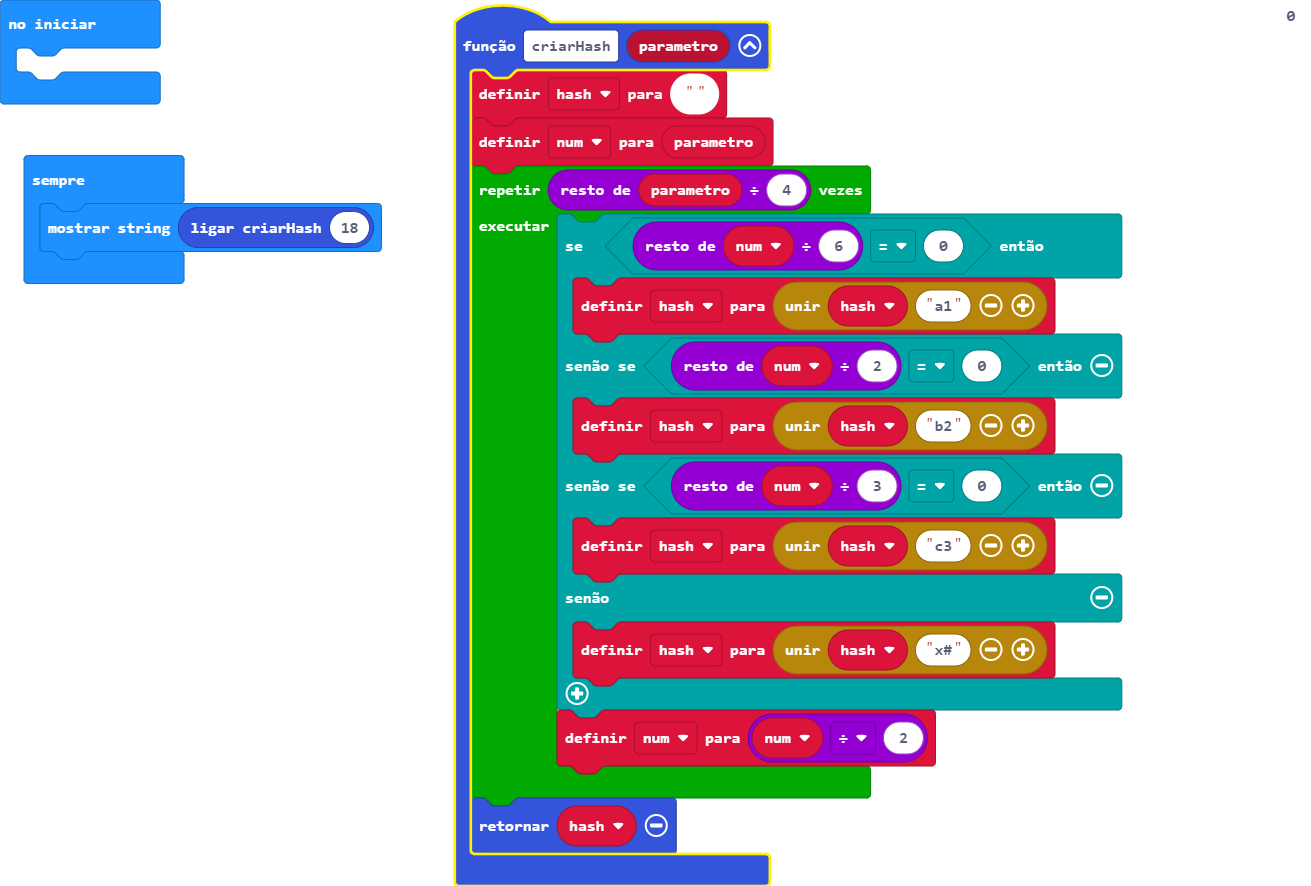
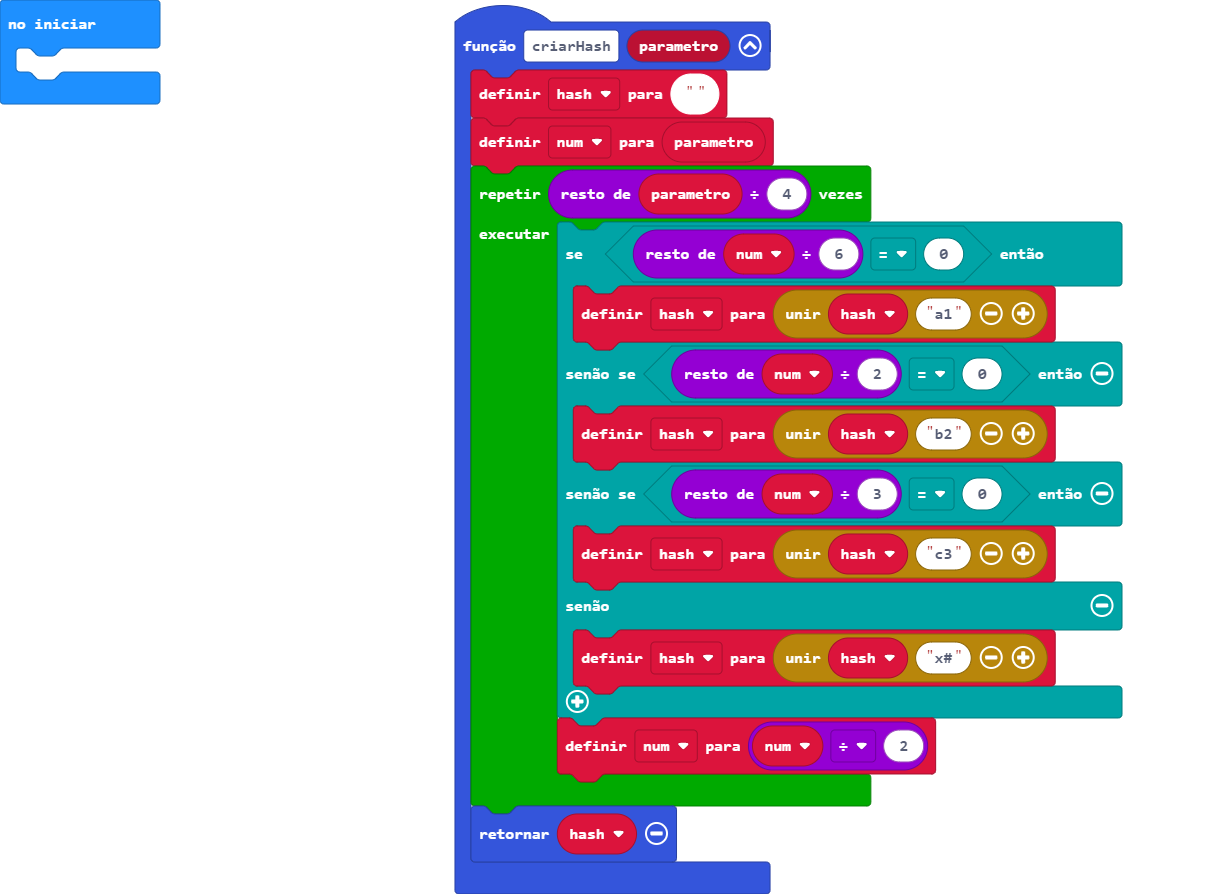
Atualizar 'pxt.json, main.blocks, main.ts'

Changed region(s): [[0.3409, 0.0, 0.9299, 1.0], [0.0, 0.1524, 0.31, 0.3352], [0.0, 0.0, 0.155, 0.1219]]

diff --git a/main.ts b/main.ts
@@ -17,6 +17,3 @@ function criarHash (parametro: number) {
     }
     return hash
 }
-basic.forever(function () {
-    basic.showString("" + (criarHash(18)))
-})
